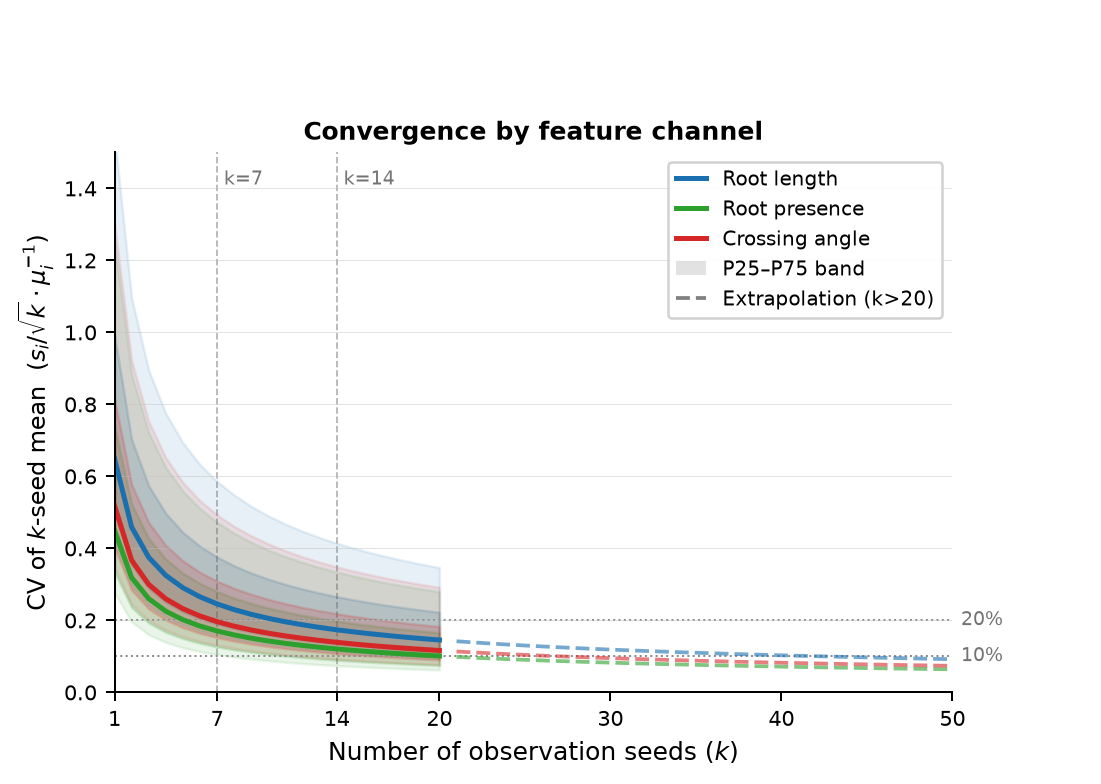
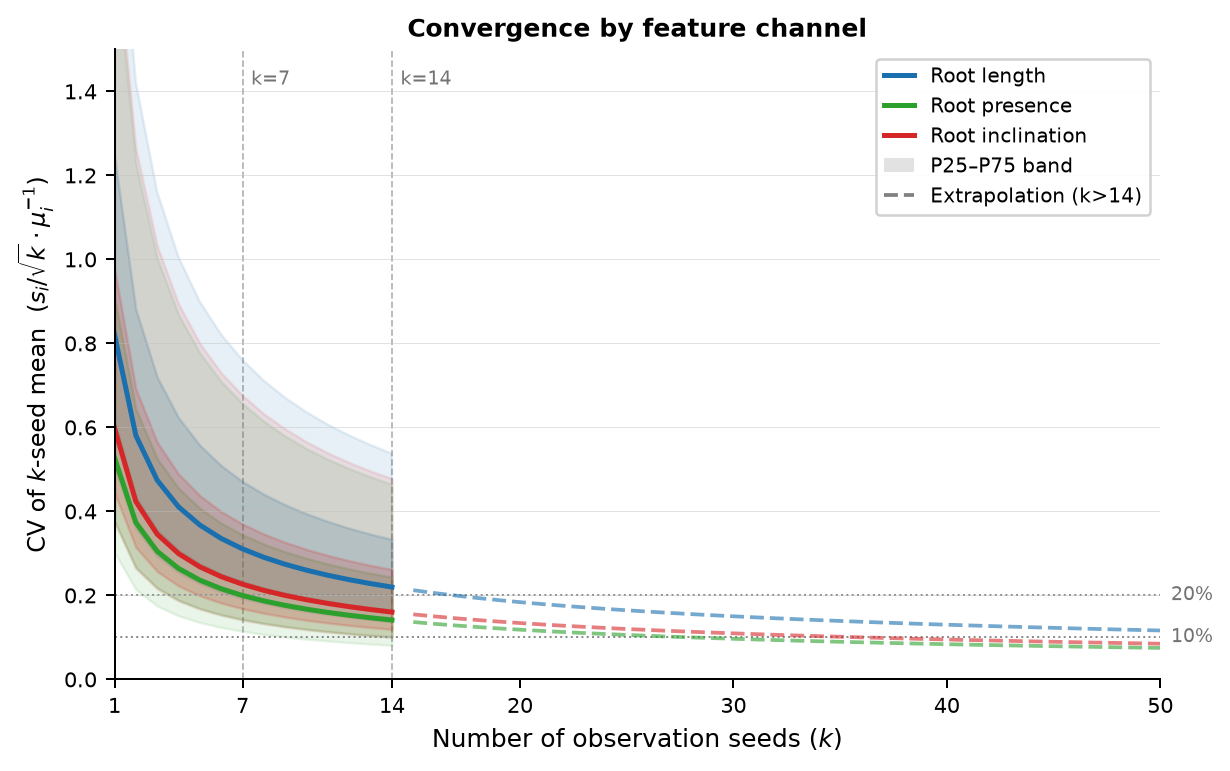
Update Fig S2: rename Crossing angle → Root inclination, use k=14 data
- CHANNELS and CHAN_COLORS updated to "Root inclination"
- Data path updated to multi_seed_v2/tensors_k14 (k=20 data unavailable)
- K set to 14; legend updated to "Extrapolation (k>14)"

diff --git a/publication/scripts/plot_figS2_seed_convergence.py b/publication/scripts/plot_figS2_seed_convergence.py
@@ -25,19 +25,19 @@ import matplotlib.pyplot as plt
 from matplotlib.lines import Line2D
 
 ROOT     = os.path.join(os.path.dirname(os.path.abspath(__file__)), "..", "..")
-SBI_DATA = os.path.join(ROOT, "sbi", "data", "multi_seed")
+SBI_DATA = "/Users/takashi/LocalAnalysis/Root FSPM Minirhizotron/main/sbi/data/multi_seed_v2"
 FIG_OUT  = os.path.join(ROOT, "publication", "figures", "figS2_seed_convergence.png")
 
 CONFIGS  = ["A", "B2", "C", "D2"]
-CHANNELS = ["Root length", "Root presence", "Crossing angle"]
-K        = 20
-K_SHOW   = [1, 7, 14, 20]   # tick marks to annotate
+CHANNELS = ["Root length", "Root presence", "Root inclination"]
+K        = 14
+K_SHOW   = [1, 7, 14]   # tick marks to annotate
 
 # ── Load data ─────────────────────────────────────────────────────────────────
 
 all_X, all_meta = [], []
 for cfg in CONFIGS:
-    p = os.path.join(SBI_DATA, f"config_{cfg}", "tensors_k20", "X_raw.npz")
+    p = os.path.join(SBI_DATA, f"config_{cfg}", "tensors_k14", "X_raw.npz")
     X = np.load(p)["X"]                                        # (N, K, T, ns, na, nc)
     df = pd.read_csv(os.path.join(SBI_DATA, f"config_{cfg}", "samples_filtered.csv"))
     df["config"] = cfg
@@ -78,9 +78,9 @@ else:
 # ── Plot ──────────────────────────────────────────────────────────────────────
 
 CHAN_COLORS = {
-    "Root length":  "#1a6faf",
-    "Root presence": "#2ca02c",
-    "Crossing angle": "#d62728",
+    "Root length":     "#1a6faf",
+    "Root presence":   "#2ca02c",
+    "Root inclination": "#d62728",
 }
 Q_COLORS = {
     "Q1": "#1a9641", "Q2": "#a6d96a", "Q3": "#ffffbf", "Q4": "#fdae61", "Q5": "#d7191c"
@@ -136,7 +136,7 @@ legend_handles = [Line2D([0], [0], color=CHAN_COLORS[c], lw=2.0, label=c)
                   for c in CHANNELS]
 legend_handles += [
     matplotlib.patches.Patch(facecolor="0.6", alpha=0.28, label="P25–P75 band"),
-    Line2D([0], [0], color="0.5", lw=1.5, ls="--", label="Extrapolation (k>20)"),
+    Line2D([0], [0], color="0.5", lw=1.5, ls="--", label="Extrapolation (k>14)"),
 ]
 ax.legend(handles=legend_handles, fontsize=8, loc="upper right",
           framealpha=0.9, handlelength=1.5)
